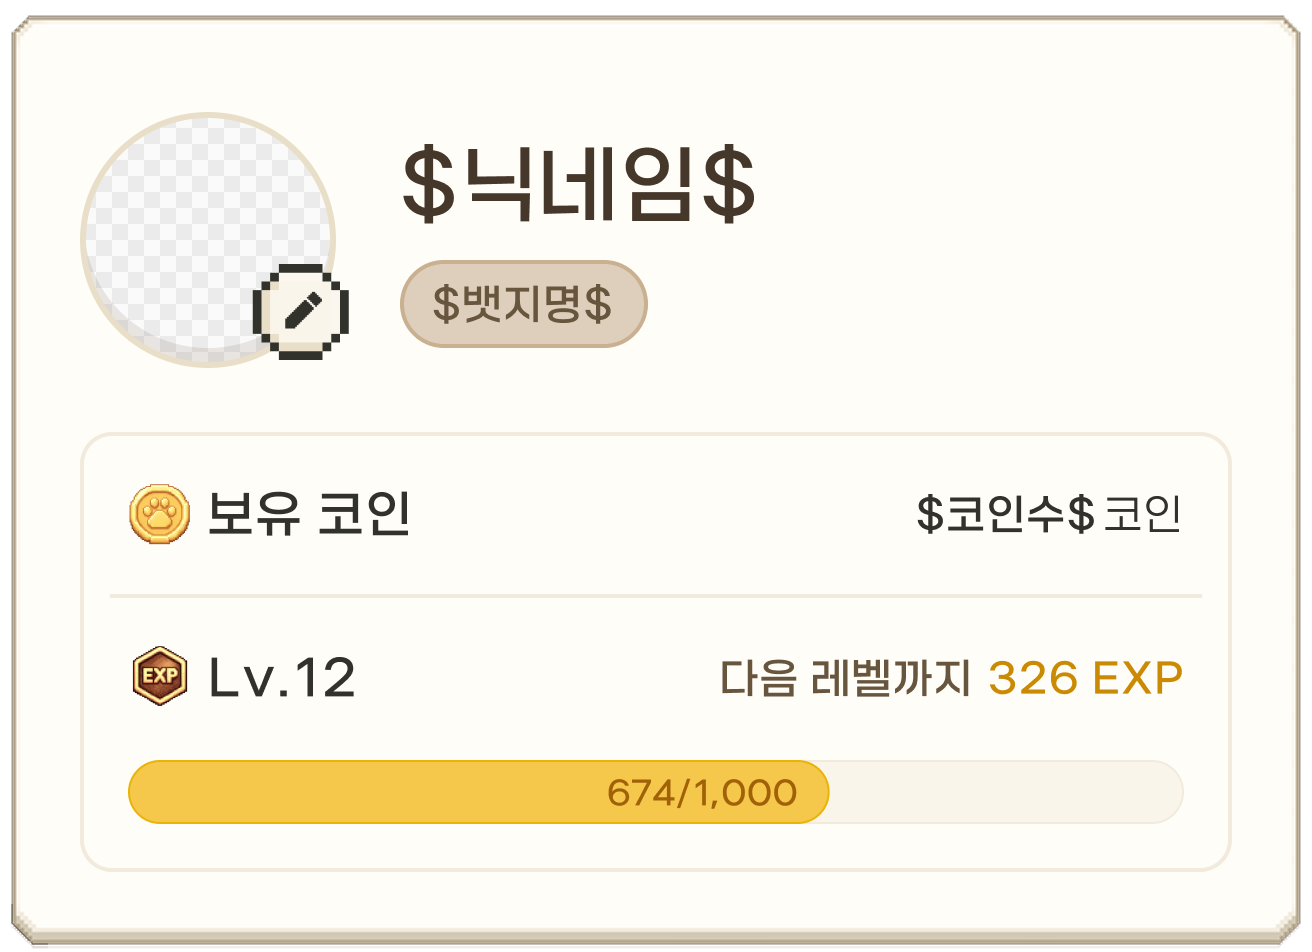
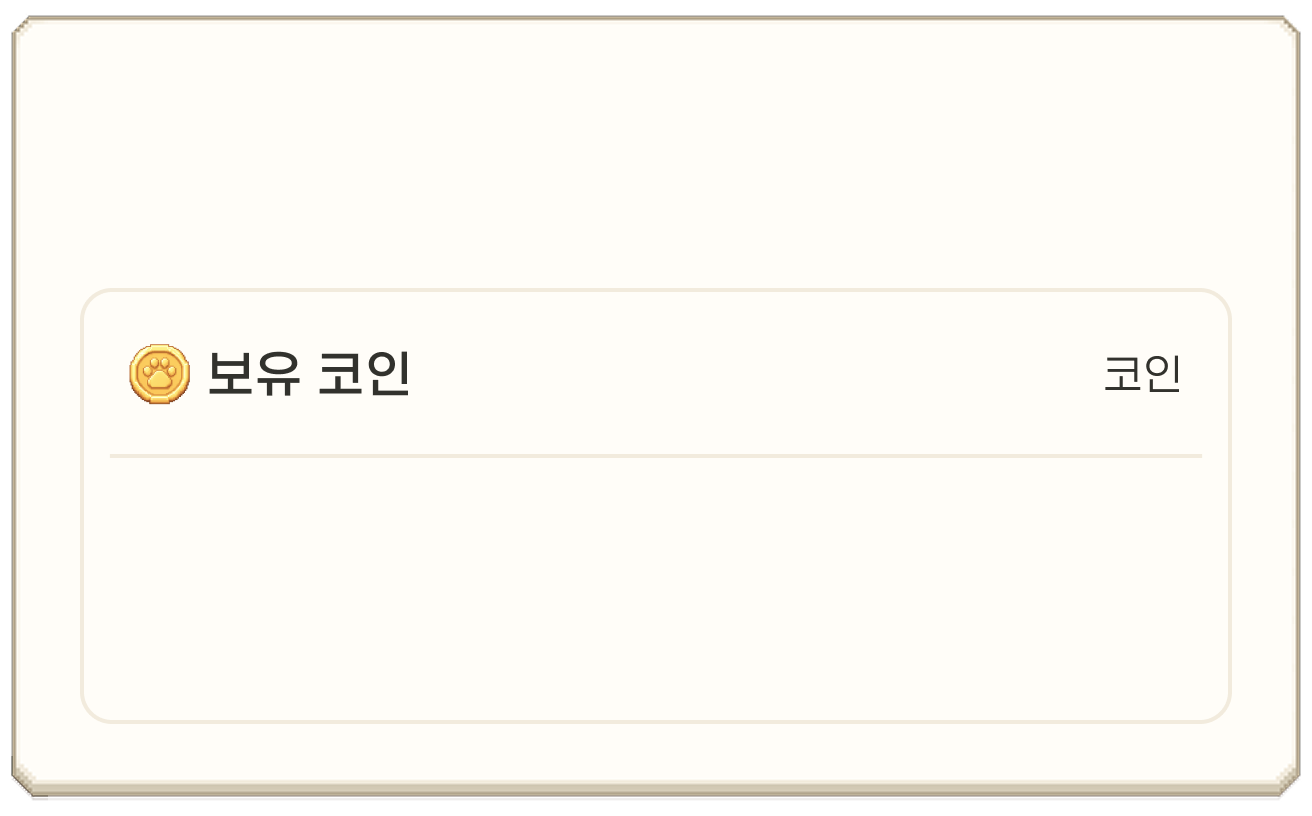
feat : 더보기 화면 프로필 정보 표시
- 사용자 프로필의 닉네임, 코인 및 레벨 정보 표시
- 경험치 아이콘과 진행률 UI 추가
- 프로필 카드 배경 이미지 변경

diff --git a/src/screens/more-screen/ui/MoreScreen.tsx b/src/screens/more-screen/ui/MoreScreen.tsx
@@ -5,13 +5,16 @@ import {
   Pressable,
   ScrollView,
   StyleSheet,
+  Text,
   View,
 } from 'react-native';
 import { useSafeAreaInsets } from 'react-native-safe-area-context';
 
+import { useUserProfile } from '@/src/entities/user';
 import { scaleByDeviceWidth } from '@/src/shared/lib/layout';
 
 const PROFILE_CARD_IMAGE = require('@/src/shared/assets/images/more/profile-card.png');
+const EXP_ICON_IMAGE = require('@/src/shared/assets/images/more/exp-icon.png');
 const COUPON_REGISTRATION_BUTTON_IMAGE = require('@/src/shared/assets/images/more/coupon-registration-button.png');
 const SETTINGS_CARD_IMAGE = require('@/src/shared/assets/images/more/settings-card.png');
 const ACCOUNT_MANAGEMENT_ROW_IMAGE = require('@/src/shared/assets/images/more/account-management-row.png');
@@ -21,9 +24,13 @@ const NOTICE_ROW_IMAGE = require('@/src/shared/assets/images/more/notice-row.png
 const INQUIRY_ROW_IMAGE = require('@/src/shared/assets/images/more/inquiry-row.png');
 const TERMS_OF_SERVICE_ROW_IMAGE = require('@/src/shared/assets/images/more/terms-of-service-row.png');
 const MENU_DIVIDER_IMAGE = require('@/src/shared/assets/images/more/menu-divider.png');
+const TEMP_CURRENT_EXP = 674;
+const TEMP_TOTAL_EXP = 1_000;
+const TEMP_REMAINING_EXP = TEMP_TOTAL_EXP - TEMP_CURRENT_EXP;
 
 export function MoreScreen() {
   const insets = useSafeAreaInsets();
+  const { profile } = useUserProfile();
 
   return (
     <ScrollView
@@ -34,12 +41,51 @@ export function MoreScreen() {
       showsVerticalScrollIndicator={false}
       style={styles.screen}
     >
-      <Image
-        accessibilityLabel="사용자 프로필 카드"
-        resizeMode="contain"
-        source={PROFILE_CARD_IMAGE}
+      <View
+        accessibilityLabel={`사용자 프로필 카드, 닉네임 ${profile?.nickname ?? ''}, 보유 코인 ${profile?.coins.toLocaleString('ko-KR') ?? ''}, 레벨 ${profile?.level ?? ''}`}
         style={styles.profileCard}
-      />
+      >
+        <Image
+          accessible={false}
+          resizeMode="contain"
+          source={PROFILE_CARD_IMAGE}
+          style={styles.profileCardImage}
+        />
+        <Text style={styles.nickname}>{profile?.nickname ?? ''}</Text>
+        <Text style={styles.coinBalance}>
+          {profile?.coins.toLocaleString('ko-KR') ?? ''}
+        </Text>
+        <Image
+          accessible={false}
+          resizeMode="contain"
+          source={EXP_ICON_IMAGE}
+          style={styles.expIcon}
+        />
+        <Text style={styles.levelText}>
+          {profile ? `Lv. ${profile.level}` : ''}
+        </Text>
+        <Text style={styles.remainingExpText}>
+          다음 레벨까지{' '}
+          <Text style={styles.remainingExpValue}>
+            {TEMP_REMAINING_EXP.toLocaleString('ko-KR')} EXP
+          </Text>
+        </Text>
+        <View
+          accessibilityLabel={`경험치 ${TEMP_CURRENT_EXP.toLocaleString('ko-KR')} / ${TEMP_TOTAL_EXP.toLocaleString('ko-KR')}`}
+          style={styles.expProgressBar}
+        >
+          <View
+            style={[
+              styles.expProgressFill,
+              { width: `${(TEMP_CURRENT_EXP / TEMP_TOTAL_EXP) * 100}%` },
+            ]}
+          />
+          <Text style={styles.expProgressText}>
+            {TEMP_CURRENT_EXP.toLocaleString('ko-KR')} /{' '}
+            {TEMP_TOTAL_EXP.toLocaleString('ko-KR')}
+          </Text>
+        </View>
+      </View>
       <Pressable
         accessibilityLabel="쿠폰 등록"
         accessibilityRole="button"
@@ -192,7 +238,87 @@ const styles = StyleSheet.create({
   },
   profileCard: {
     width: scaleByDeviceWidth(328),
-    height: scaleByDeviceWidth(236),
+    height: scaleByDeviceWidth(204),
+  },
+  profileCardImage: {
+    width: '100%',
+    height: '100%',
+  },
+  nickname: {
+    position: 'absolute',
+    top: scaleByDeviceWidth(28),
+    left: scaleByDeviceWidth(20),
+    color: '#302F2B',
+    fontFamily: 'EliceDXNeolli-Medium',
+    fontSize: scaleByDeviceWidth(20),
+    lineHeight: scaleByDeviceWidth(25),
+  },
+  coinBalance: {
+    position: 'absolute',
+    top: scaleByDeviceWidth(87),
+    right: scaleByDeviceWidth(54),
+    color: '#302F2B',
+    fontFamily: 'EliceDXNeolli-Medium',
+    fontSize: scaleByDeviceWidth(10),
+    lineHeight: scaleByDeviceWidth(13),
+    textAlign: 'right',
+  },
+  expIcon: {
+    position: 'absolute',
+    top: scaleByDeviceWidth(126.5),
+    left: scaleByDeviceWidth(31.5),
+    width: scaleByDeviceWidth(16),
+    height: scaleByDeviceWidth(16),
+  },
+  levelText: {
+    position: 'absolute',
+    top: scaleByDeviceWidth(126.5),
+    left: scaleByDeviceWidth(51.5),
+    color: '#302F2B',
+    fontFamily: 'EliceDXNeolli-Medium',
+    fontSize: scaleByDeviceWidth(12),
+    lineHeight: scaleByDeviceWidth(16),
+  },
+  remainingExpText: {
+    position: 'absolute',
+    top: scaleByDeviceWidth(128),
+    right: scaleByDeviceWidth(29),
+    color: '#675641',
+    fontFamily: 'EliceDXNeolli-Medium',
+    fontSize: scaleByDeviceWidth(10),
+    lineHeight: scaleByDeviceWidth(13),
+    textAlign: 'right',
+  },
+  remainingExpValue: {
+    color: '#D08A00',
+  },
+  expProgressBar: {
+    position: 'absolute',
+    top: scaleByDeviceWidth(153),
+    left: scaleByDeviceWidth(32),
+    width: scaleByDeviceWidth(264),
+    height: scaleByDeviceWidth(16),
+    overflow: 'hidden',
+    backgroundColor: '#F7F2E9',
+    borderColor: '#EEE4D3',
+    borderWidth: scaleByDeviceWidth(1),
+    borderRadius: scaleByDeviceWidth(8),
+  },
+  expProgressFill: {
+    height: '100%',
+    backgroundColor: '#F8CC51',
+  },
+  expProgressText: {
+    position: 'absolute',
+    top: 0,
+    right: 0,
+    bottom: 0,
+    left: 0,
+    color: '#A16207',
+    fontFamily: 'EliceDXNeolli-Medium',
+    fontSize: scaleByDeviceWidth(8),
+    lineHeight: scaleByDeviceWidth(14),
+    textAlign: 'center',
   },
   couponRegistrationButton: {
     width: scaleByDeviceWidth(328),
